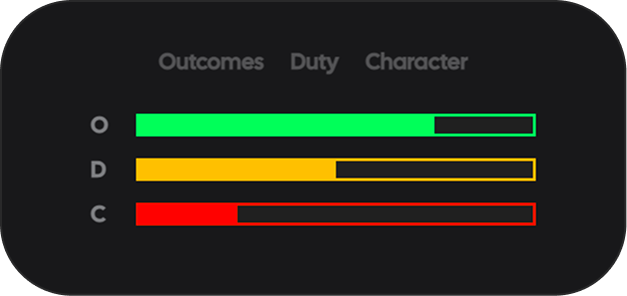
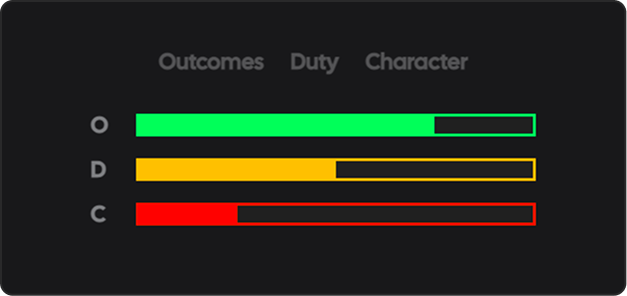
modified:   README.md 	modified:   docs/GithubReadme/ODC screenshot.png

diff --git a/README.md b/README.md
@@ -9,7 +9,7 @@ This project is a part of my final assignment for Technology & Media Art class. 
 ## Gameplay
 To play the game you can click on the webpage linked to this repository or click on the shield below:
 
-[![Play the game](https://img.shields.io/badge/Play%20the%20game-0051FF?logo=googlechrome&logoColor=white)](link)
+[![Play the game](https://img.shields.io/badge/Play%20the%20game-0051FF?logo=googlechrome&logoColor=white)]([link](https://sirarsen1.github.io/DiscipleAIEthicsIInteviewGame/))
 
 ![Game Screenshots](docs/GithubReadme/screenshots.png)
 
